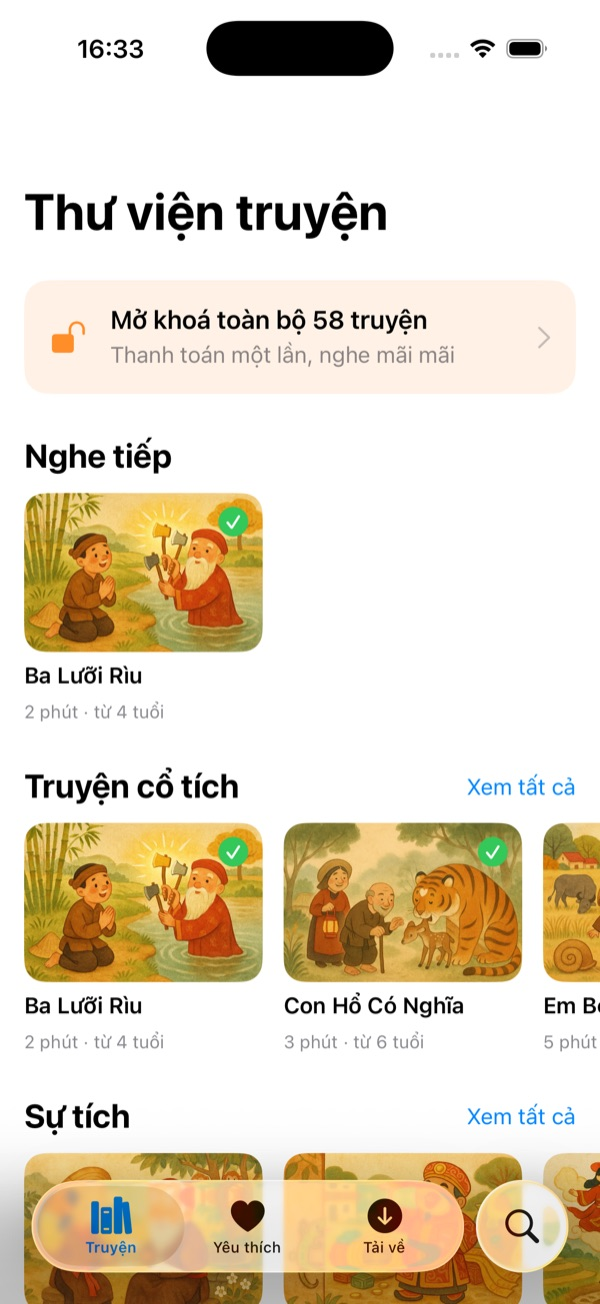
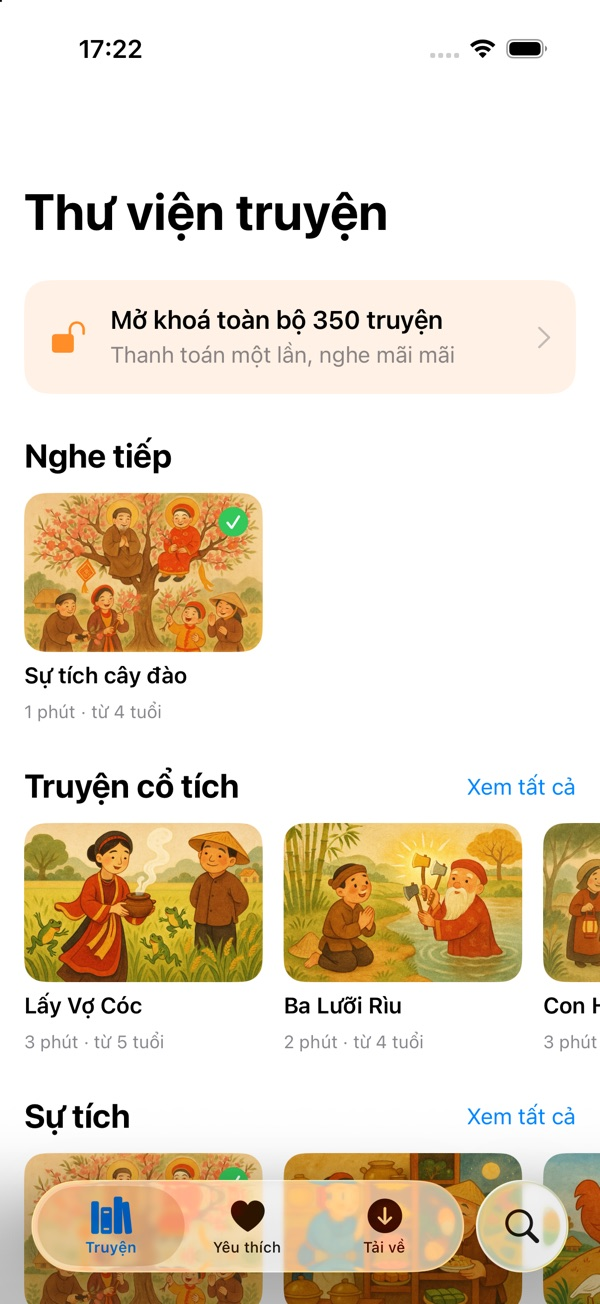
Cập nhật trang giới thiệu theo hiện trạng app đã lên App Store
- Nút hero trỏ thẳng tới App Store thay vì "Sắp có"
- 58 -> 350 truyện, 8 -> 10 chủ đề, 16 -> 19 truyện miễn phí
- Ghi rõ yêu cầu iOS 17 trở lên
- og:image dùng URL tuyệt đối, thêm og:url và og:type
- Nói rõ chỉ nhiều truyện có đố vui (65/350), không phải tất cả
- Chụp lại ảnh thư viện vì ảnh cũ còn ghi "Mở khoá toàn bộ 58 truyện"
- Chính sách quyền riêng tư: máy chủ nội dung là Cloudflare, bản cũ dùng Supabase

diff --git a/index.html b/index.html
@@ -4,10 +4,12 @@
   <meta charset="utf-8">
   <meta name="viewport" content="width=device-width, initial-scale=1">
   <title>Truyện Cổ Tích Việt Nam – Nghe kể chuyện cho bé</title>
-  <meta name="description" content="58 truyện cổ tích, sự tích, ngụ ngôn Việt Nam có giọng kể và tranh màu nước cho bé. Nghe không cần mạng, không quảng cáo.">
+  <meta name="description" content="350 truyện cổ tích, sự tích, ngụ ngôn Việt Nam có giọng kể và tranh màu nước cho bé. Nghe không cần mạng, không quảng cáo.">
   <meta property="og:title" content="Truyện Cổ Tích Việt Nam">
-  <meta property="og:description" content="58 truyện cổ tích có giọng kể và tranh màu nước cho bé. Không quảng cáo.">
-  <meta property="og:image" content="assets/covers/cay-khe.jpg">
+  <meta property="og:description" content="350 truyện cổ tích có giọng kể và tranh màu nước cho bé. Không quảng cáo.">
+  <meta property="og:image" content="https://truyencotichvn.app/assets/covers/cay-khe.jpg">
+  <meta property="og:url" content="https://truyencotichvn.app/">
+  <meta property="og:type" content="website">
   <meta name="theme-color" content="#b8321f">
   <link rel="icon" href="assets/favicon.png">
   <link rel="apple-touch-icon" href="assets/apple-touch-icon.png">
@@ -34,12 +36,12 @@
         <div>
           <img class="hero-icon" src="assets/icon-512.jpg" alt="Icon ứng dụng Truyện Cổ Tích">
           <h1>Truyện cổ tích Việt Nam, kể cho bé nghe</h1>
-          <p class="lead">58 câu chuyện ông bà vẫn kể – Tấm Cám, Sọ Dừa, Cây Khế, Thạch Sanh, Sơn Tinh Thuỷ Tinh – có giọng kể thu sẵn và tranh màu nước ấm áp. Bé nghe trước giờ ngủ, bố mẹ yên tâm vì không có quảng cáo.</p>
+          <p class="lead">350 câu chuyện ông bà vẫn kể – Tấm Cám, Sọ Dừa, Cây Khế, Thạch Sanh, Sơn Tinh Thuỷ Tinh – có giọng kể thu sẵn và tranh màu nước ấm áp. Bé nghe trước giờ ngủ, bố mẹ yên tâm vì không có quảng cáo.</p>
           <div class="badges">
-            <a class="btn" aria-disabled="true">Sắp có trên App Store</a>
+            <a class="btn" href="https://apps.apple.com/vn/app/id6820407007">Tải trên App Store</a>
             <a class="btn ghost" href="#ho-tro">Hỗ trợ</a>
           </div>
-          <p class="note">Dành cho iPhone và iPad. 16 truyện miễn phí.</p>
+          <p class="note">Dành cho iPhone và iPad, cần iOS 17 trở lên. 19 truyện miễn phí.</p>
         </div>
         <div class="phone">
           <img src="assets/screen-library.jpg" alt="Màn hình thư viện truyện trong ứng dụng" width="600" height="1304">
@@ -51,7 +53,7 @@
       <div class="wrap">
         <div class="section-head">
           <h2>Những câu chuyện bé sẽ nhớ mãi</h2>
-          <p>Truyện cổ tích, sự tích, truyền thuyết, ngụ ngôn, truyện cười, đồng dao và truyện tiếng Anh – 8 chủ đề, mỗi truyện một bức tranh riêng.</p>
+          <p>Truyện cổ tích, sự tích, truyền thuyết, thần thoại, ngụ ngôn, truyện cười, đồng dao, hát ru, truyện cho bé và truyện tiếng Anh – 10 chủ đề, mỗi truyện một bức tranh riêng.</p>
         </div>
         <div class="covers">
           <figure><img src="assets/covers/tam-cam.jpg" alt="" loading="lazy"><figcaption>Tấm Cám</figcaption></figure>
@@ -73,7 +75,7 @@
           <div class="card"><div class="icon">🎧</div><h3>Giọng kể thu sẵn</h3><p>Chữ hiện theo từng cảnh để bé vừa nghe vừa nhìn. Vẫn nghe tiếp khi tắt màn hình.</p></div>
           <div class="card"><div class="icon">🌙</div><h3>Nghe tất cả</h3><p>Tự phát hết truyện này sang truyện khác, hợp cho giờ đi ngủ.</p></div>
           <div class="card"><div class="icon">📶</div><h3>Không cần mạng</h3><p>Tải truyện về một lần, sau đó nghe mọi lúc, kể cả trên xe hay máy bay.</p></div>
-          <div class="card"><div class="icon">⭐</div><h3>Đố vui sau truyện</h3><p>Câu hỏi nhỏ giúp bé nhớ nội dung và bài học của câu chuyện.</p></div>
+          <div class="card"><div class="icon">⭐</div><h3>Đố vui sau truyện</h3><p>Nhiều truyện có câu hỏi nhỏ ở cuối, giúp bé nhớ nội dung và bài học.</p></div>
           <div class="card"><div class="icon">🔤</div><h3>Truyện tiếng Anh</h3><p>11 truyện song ngữ kèm bản dịch tiếng Việt và từ mới.</p></div>
           <div class="card"><div class="icon">🎨</div><h3>Tranh màu nước</h3><p>Mỗi truyện một bức tranh mang nét tranh dân gian Việt Nam.</p></div>
         </div>
@@ -84,7 +86,7 @@
       <div class="wrap split">
         <div class="price">
           <h3>Miễn phí để bắt đầu</h3>
-          <p>16 truyện miễn phí, mỗi chủ đề 2 truyện. Thích thì mở khoá toàn bộ chỉ với một lần thanh toán.</p>
+          <p>19 truyện miễn phí, mỗi chủ đề 2 truyện. Thích thì mở khoá toàn bộ 350 truyện chỉ với một lần thanh toán.</p>
           <ul>
             <li>Không thuê bao, không gia hạn</li>
             <li>Dùng chung cả nhà qua Chia sẻ trong gia đình</li>

diff --git a/privacy.html b/privacy.html
@@ -37,7 +37,7 @@
     <p>Tiến độ nghe, điểm đố vui, truyện yêu thích và các truyện đã tải về chỉ được lưu trên thiết bị của bạn, không được gửi đi đâu. Xoá ứng dụng sẽ xoá toàn bộ dữ liệu này.</p>
 
     <h2>3. Tải nội dung</h2>
-    <p>Khi bạn tải một truyện, ứng dụng kết nối tới máy chủ lưu trữ (Supabase) để lấy file âm thanh và hình ảnh của truyện đó. Yêu cầu tải không kèm thông tin cá nhân nào và không được dùng để nhận diện hay theo dõi người dùng.</p>
+    <p>Khi bạn tải một truyện, ứng dụng kết nối tới máy chủ lưu trữ (Cloudflare; các phiên bản cũ dùng Supabase) để lấy file âm thanh và hình ảnh của truyện đó. Yêu cầu tải không kèm thông tin cá nhân nào và không được dùng để nhận diện hay theo dõi người dùng.</p>
 
     <h2>4. Không quảng cáo, không theo dõi</h2>
     <p>Ứng dụng không hiển thị quảng cáo, không dùng công cụ phân tích (analytics) hay bộ theo dõi của bên thứ ba, và không chia sẻ dữ liệu với bên nào.</p>
@@ -69,7 +69,7 @@
       <p>Listening progress, quiz scores, favourite stories and downloaded stories are stored only on your device and are never sent anywhere. Deleting the app removes all of this data.</p>
 
       <h2>3. Downloading content</h2>
-      <p>When you download a story, the app connects to a storage server (Supabase) to fetch that story’s audio and images. These requests carry no personal information and are not used to identify or track users.</p>
+      <p>When you download a story, the app connects to a storage server (Cloudflare; older versions use Supabase) to fetch that story’s audio and images. These requests carry no personal information and are not used to identify or track users.</p>
 
       <h2>4. No ads, no tracking</h2>
       <p>The app shows no advertising, uses no third-party analytics or tracking tools, and shares no data with anyone.</p>
